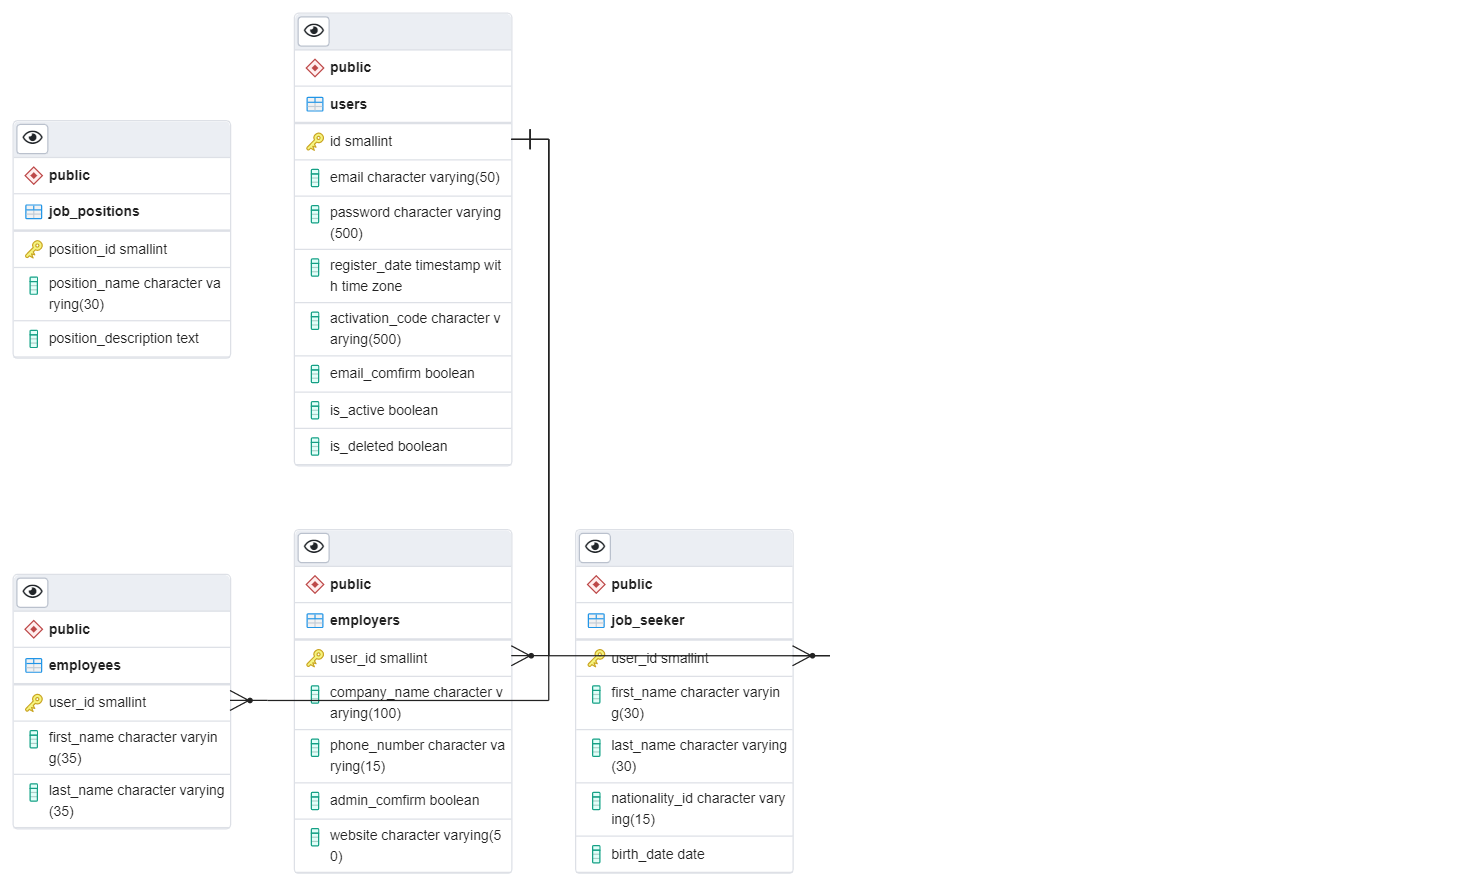
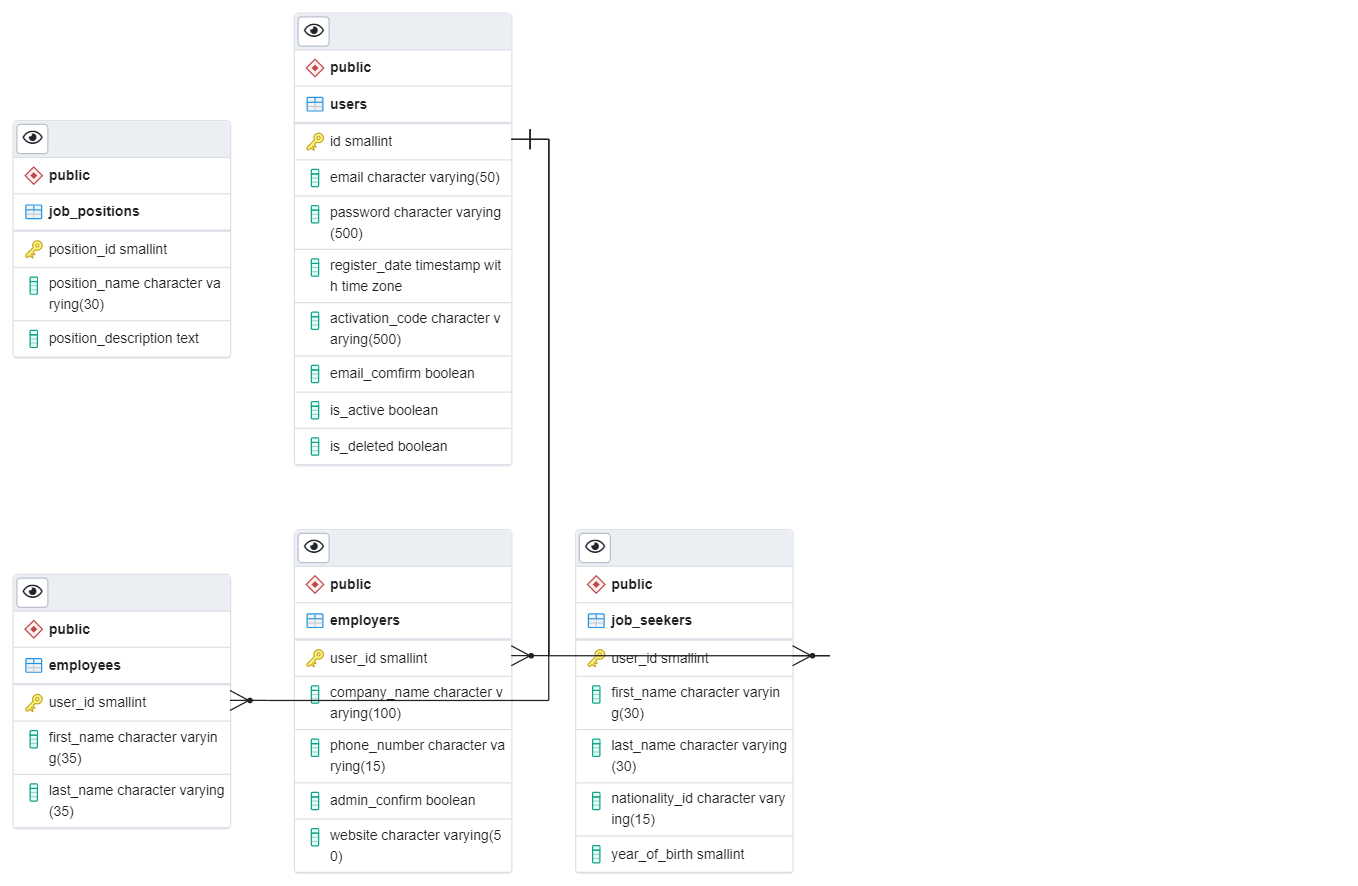
Add confirm activation

diff --git a/src/main/java/kodlamaio/hrms/business/concretes/UserManager.java b/src/main/java/kodlamaio/hrms/business/concretes/UserManager.java
@@ -14,6 +14,7 @@ import kodlamaio.hrms.core.utilities.results.SuccessDataResult;
 import kodlamaio.hrms.core.utilities.results.SuccessResult;
 import kodlamaio.hrms.dataAccess.abstracts.UserDao;
 import kodlamaio.hrms.entities.concretes.User;
+import kodlamaio.hrms.business.constants.Messages;
 
 @Service
 public class UserManager implements UserService {
@@ -49,17 +50,19 @@ private UserDao userDao;
 	}
 
 	@Override
-	public boolean comfirmActivation(String email, String activationCode) {
+	public Result confirmActivation(String email, String activationCode) {
 		User user = this.userDao.findUserByEmail(email);
 		if(user != null) {
-			if(user.getActivationCode().equals(activationCode) && !user.isDeleted()) {
-				user.setActive(true);
-				userDao.save(user);
-				return true;
+			if(!user.isActive()) {
+				if(user.getActivationCode().equals(activationCode) && !user.isDeleted()) {
+					user.setActive(true);
+					userDao.save(user);
+					return new SuccessResult(Messages.confirmActivationSuccess);
+				}
 			}
-			return user.isActive() && !user.isDeleted();
+			return new SuccessResult(Messages.allreadyConfirm);
 		}
-        return false;
+        return new ErrorResult();
 	}
 
 	@Override

diff --git a/src/main/java/kodlamaio/hrms/business/constants/Messages.java b/src/main/java/kodlamaio/hrms/business/constants/Messages.java
@@ -12,4 +12,6 @@ public final class Messages {
 	public static String saveUserAndSendCode = "User added successfully and activation link has been sent to registration email address";
 	public static String saveUserButNotSendCode = "User added successfully but the activation code could not be sent";
 	public static String notMatchEmailAndDomain = "Mail and domain name do not match";
+	public static String confirmActivationSuccess = "Confirm activation successfully";
+	public static String allreadyConfirm = "Activation has already been completed.";
 }

diff --git a/src/main/java/kodlamaio/hrms/api/controllers/AuthController.java b/src/main/java/kodlamaio/hrms/api/controllers/AuthController.java
@@ -53,9 +53,9 @@ public class AuthController {
         return authService.jobSeekerRegister(jobSeekerForRegisterDto);
     }
 
-    @PostMapping("/comfirmactivation")
-    public Result comfirmActivation(@RequestBody String email, String activationCode) {
-        return authService.comfirmActivation(email, activationCode);
+    @PostMapping("/confirmactivation")
+    public Result confirmActivation(@RequestBody String email, String activationCode) {
+        return authService.confirmActivation(email, activationCode);
     }
 
 }

diff --git a/src/main/java/kodlamaio/hrms/business/concretes/EmployerManager.java b/src/main/java/kodlamaio/hrms/business/concretes/EmployerManager.java
@@ -48,7 +48,7 @@ public class EmployerManager implements EmployerService {
 	public Result checkLogin(String email, String password) {
 		Employer employer = this.employerDao.findUserByEmailAndPassword(email, password);
 		if(employer != null) {
-			if(employer.isActive() && employer.isAdminComfirm() && !employer.isDeleted()) {
+			if(employer.isActive() && employer.isAdminConfirm() && !employer.isDeleted()) {
 				return new SuccessResult();
 			}
 		}

diff --git a/src/main/java/kodlamaio/hrms/business/abstracts/UserService.java b/src/main/java/kodlamaio/hrms/business/abstracts/UserService.java
@@ -10,7 +10,7 @@ public interface UserService {
 	DataResult<List<User>> getAll();
 	DataResult<User> getByEmail(String email);
 	Result add(User user);
-	boolean comfirmActivation(String email, String activationCode);
+	Result confirmActivation(String email, String activationCode);
 	Result checkLogin(String email, String password);
 	boolean checkIfExistsUserByEmail(String email);
 }

diff --git a/src/main/java/kodlamaio/hrms/business/concretes/AuthManager.java b/src/main/java/kodlamaio/hrms/business/concretes/AuthManager.java
@@ -181,9 +181,8 @@ public class AuthManager implements AuthService {
 	}
 
 	@Override
-	public boolean comfirmActivation(String email, String activationCode) {
-		
-		return userService.comfirmActivation(email, activationCode);
+	public Result confirmActivation(String email, String activationCode) {
+		return userService.confirmActivation(email, activationCode);
 	}
 
 }

diff --git a/src/main/java/kodlamaio/hrms/entities/concretes/Employer.java b/src/main/java/kodlamaio/hrms/entities/concretes/Employer.java
@@ -28,8 +28,8 @@ public class Employer extends User{
 	@Column(name="phone_number")
 	private String phoneNumber;
 	
-	@Column(name="admin_comfirm", columnDefinition = "boolean default false")
-	private boolean adminComfirm = false;
+	@Column(name="admin_confirm", columnDefinition = "boolean default false")
+	private boolean adminConfirm = false;
 
 
     public Employer(

diff --git a/src/main/java/kodlamaio/hrms/business/abstracts/AuthService.java b/src/main/java/kodlamaio/hrms/business/abstracts/AuthService.java
@@ -14,5 +14,5 @@ public interface AuthService {
     Result employerRegister(EmployerForRegisterDto employerForRegisterDto);
     Result jobSeekerRegister(JobSeekerForRegisterDto jobSeekerForRegisterDto);
 
-	boolean comfirmActivation(String email, String activationCode);
+	Result confirmActivation(String email, String activationCode);
 }
